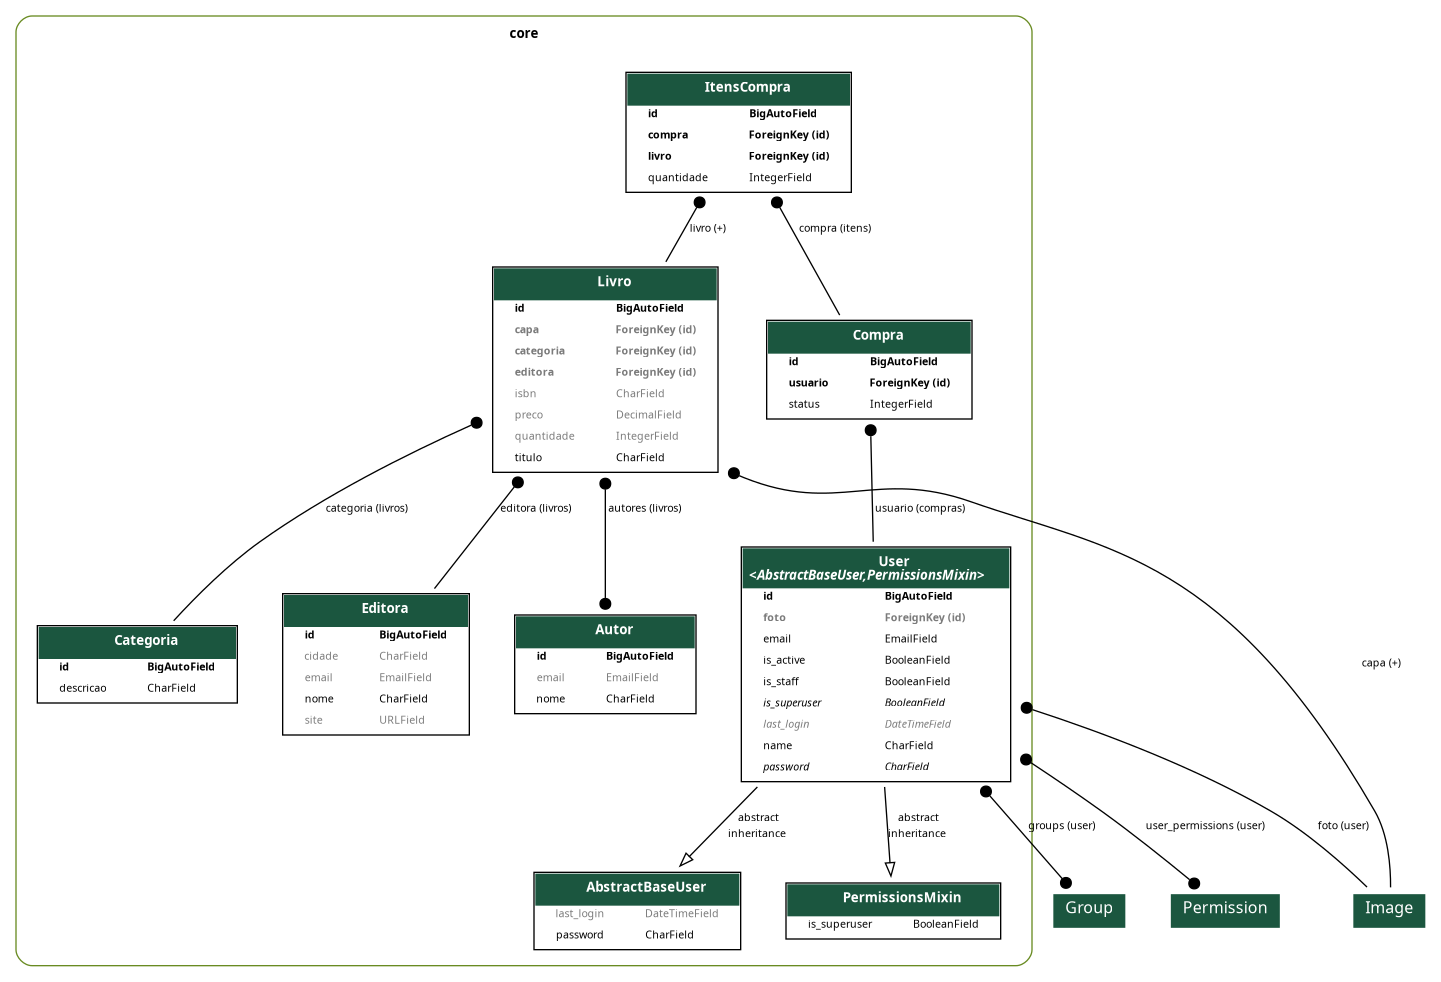
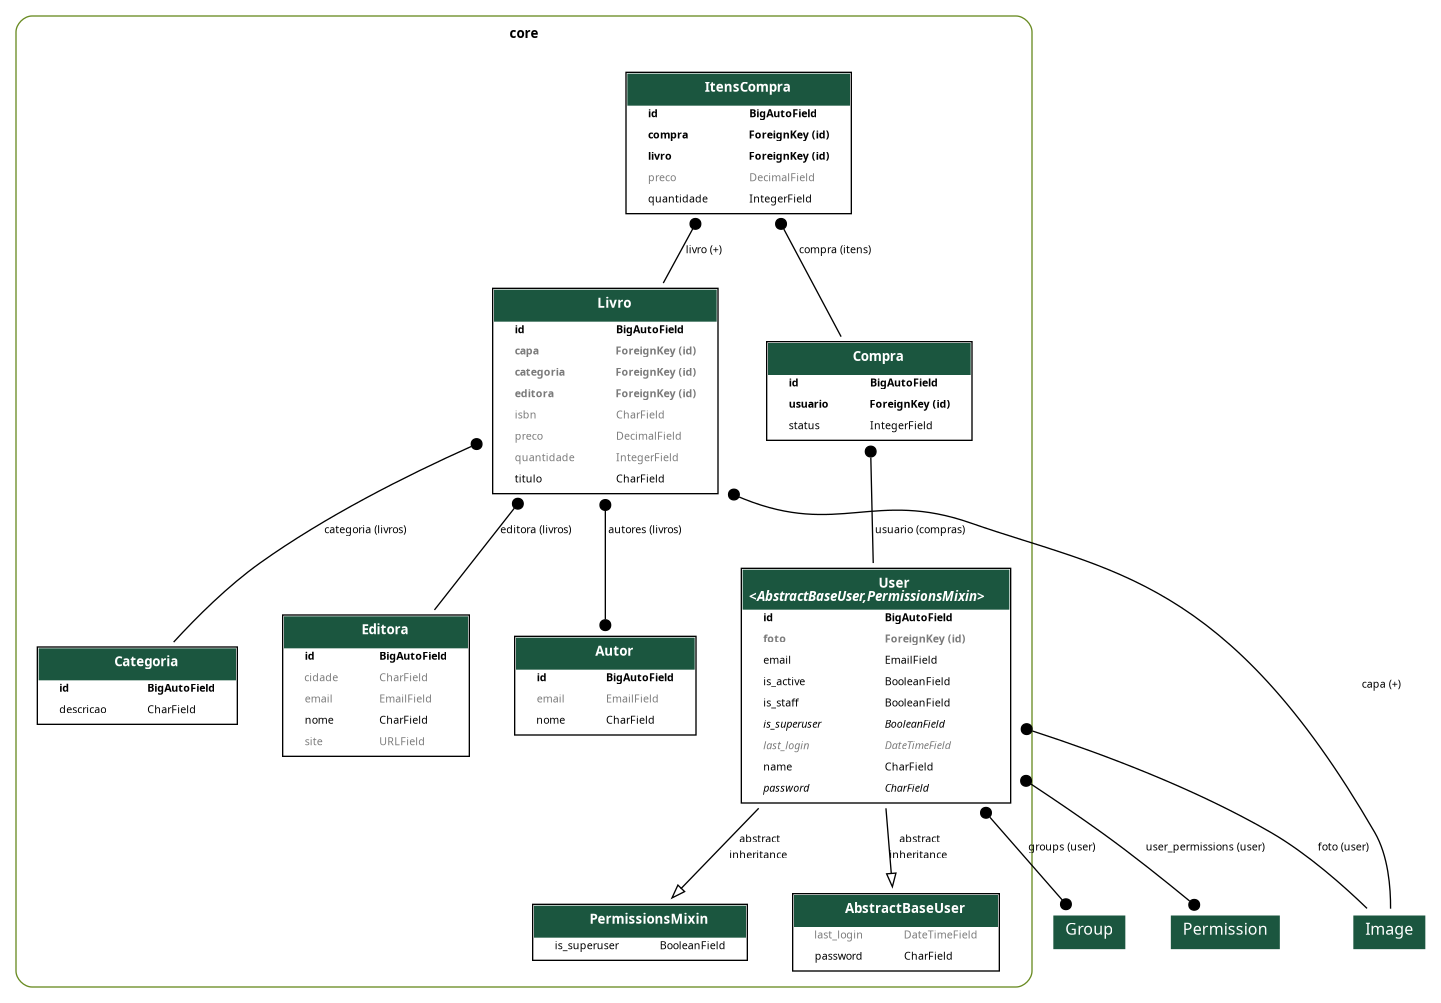
Gravando o preço do livro no item da compra

diff --git a/core/serializers/compra.py b/core/serializers/compra.py
@@ -29,9 +29,7 @@ class CriarEditarItensCompraSerializer(ModelSerializer):
 
     def validate(self, data):
         if data["quantidade"] > data["livro"].quantidade:
-            raise ValidationError(
-                {"quantidade": "Quantidade solicitada não disponível em estoque."}
-            )
+            raise ValidationError({"quantidade": "Quantidade solicitada não disponível em estoque."})
         return data
 
 
@@ -54,11 +52,11 @@ class CriarEditarCompraSerializer(ModelSerializer):
         fields = ("usuario", "itens")
 
     def create(self, validated_data):
-        itens_data = validated_data.pop("itens")
+        itens = validated_data.pop("itens")
         compra = Compra.objects.create(**validated_data)
-        for item_data in itens_data:
-            ItensCompra.objects.create(compra=compra, **item_data)
-        compra.save()
+        for item in itens:
+            item["preco"] = item["livro"].preco  # nova linha
+            ItensCompra.objects.create(compra=compra, **item)
         return compra
 
     def update(self, instance, validated_data):
@@ -66,6 +64,7 @@ class CriarEditarCompraSerializer(ModelSerializer):
         if itens:
             instance.itens.all().delete()
             for item in itens:
+                item["preco"] = item["livro"].preco  # nova linha
                 ItensCompra.objects.create(compra=instance, **item)
         instance.save()
         return super().update(instance, validated_data)

diff --git a/core/models/compra.py b/core/models/compra.py
@@ -16,10 +16,11 @@ class Compra(models.Model):
 
     @property
     def total(self):
-        return sum(item.livro.preco * item.quantidade for item in self.itens.all())
+        return sum(item.preco * item.quantidade for item in self.itens.all())
 
 
 class ItensCompra(models.Model):
     compra = models.ForeignKey(Compra, on_delete=models.CASCADE, related_name="itens")
     livro = models.ForeignKey(Livro, on_delete=models.PROTECT, related_name="+")
     quantidade = models.IntegerField(default=1)
+    preco = models.DecimalField(max_digits=10, decimal_places=2, blank=True, null=True, default=0)

diff --git a/core/migrations/0017_itenscompra_preco.py b/core/migrations/0017_itenscompra_preco.py
@@ -1,0 +1,18 @@
+# Generated by Django 5.0.6 on 2024-05-14 14:41
+
+from django.db import migrations, models
+
+
+class Migration(migrations.Migration):
+
+    dependencies = [
+        ("core", "0016_itenscompra"),
+    ]
+
+    operations = [
+        migrations.AddField(
+            model_name="itenscompra",
+            name="preco",
+            field=models.DecimalField(blank=True, decimal_places=2, default=0, max_digits=10, null=True),
+        ),
+    ]
